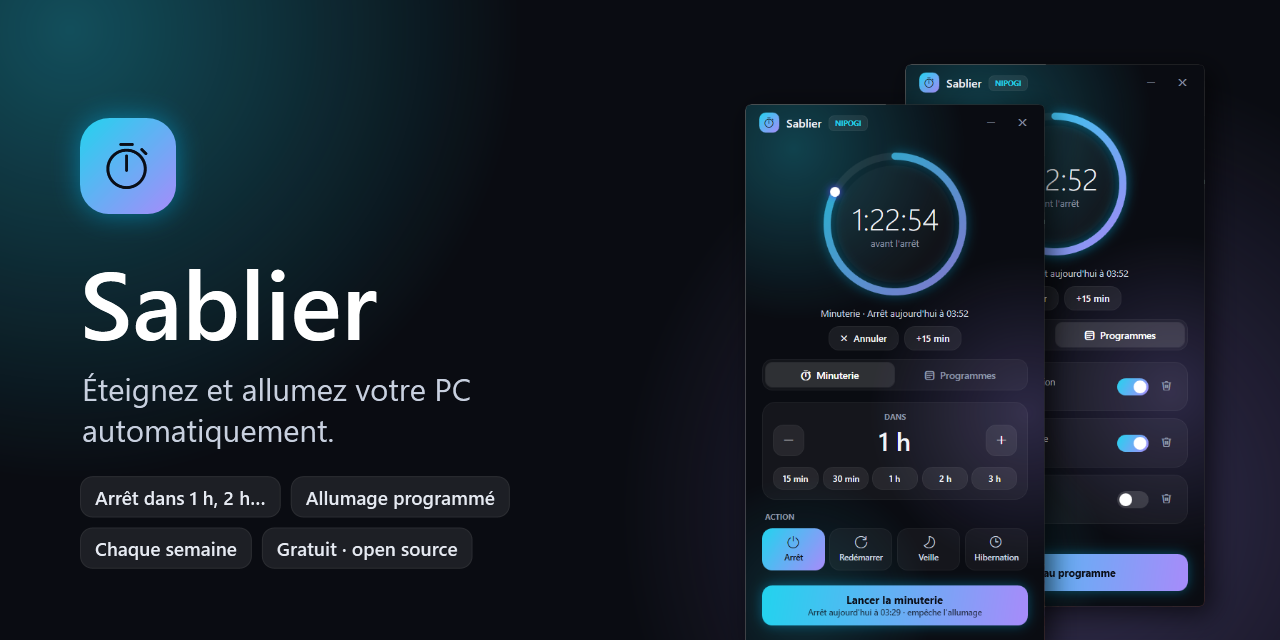
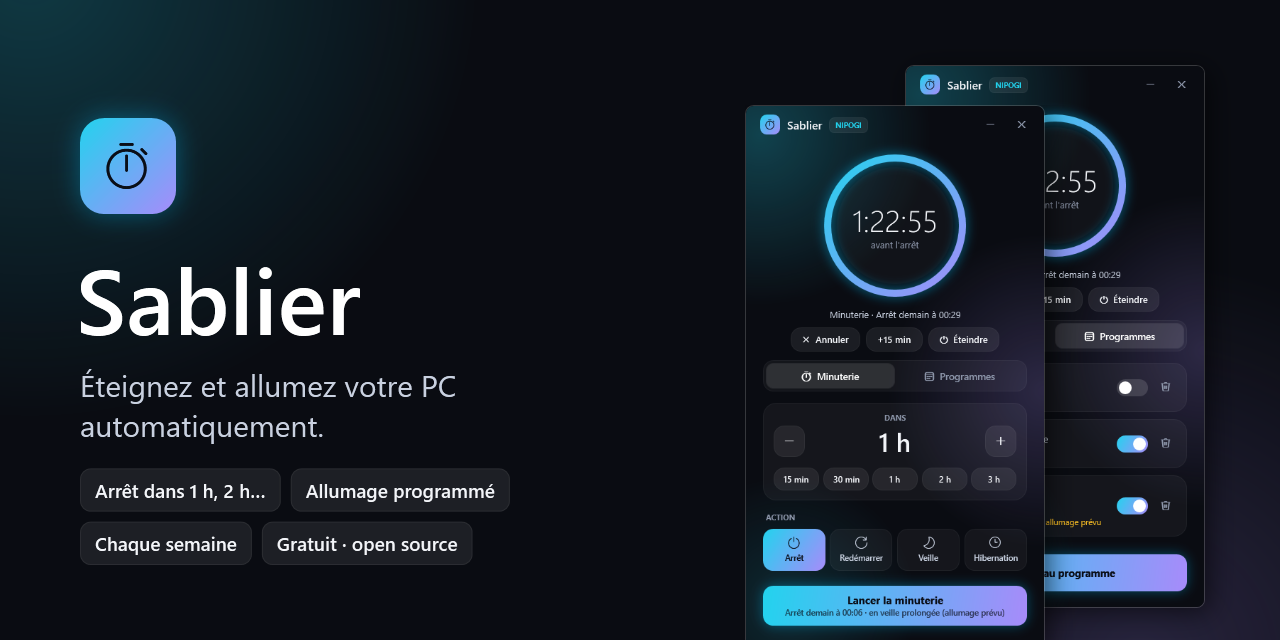
Sablier 1.1 : captures d'écran à jour, textes anglais relus
- Nouvelles captures (minuterie, programmes, fiche) FR/EN et aperçu GitHub
- Formulations anglaises du guide d'extinction et du README

Claude-Session: https://claude.ai/code/session_01WMaou3efQyMhv7Enn1FoQU

diff --git a/Sablier.cs b/Sablier.cs
@@ -847,7 +847,7 @@ class Fenetre
         F<TextBlock>("GuideTitre").Text = Ui.T("Allumage prévu ", "Wake-up scheduled ") + Ui.Quand(p.Cible);
         string texte = Ui.T(
             "Pour que le PC se rallume tout seul, il doit être en veille prolongée, pas éteint.\n\n• Éteignez avec « Éteindre » dans Sablier (ou son raccourci « Éteindre le PC ») ou avec le bouton d'alimentation du PC.\n• Les arrêts programmés et minuteries « Arrêt » passent eux aussi en veille prolongée.\n• Évitez Démarrer › Arrêter : l'allumage n'aurait pas lieu.\n\nAu réveil, le PC reste allumé jusqu'à votre retour (2 h max).",
-            "To wake up on its own, the PC must be hibernating, not shut down.\n\n• Turn off with \"Turn off\" in Sablier (or its \"Shut down PC\" shortcut) or with the PC's power button.\n• Scheduled shutdowns and shut-down timers hibernate too.\n• Avoid Start › Shut down: the wake-up would not happen.\n\nOnce woken, the PC stays on until you're back (2 h max).");
+            "To wake up on its own, the PC must be hibernating, not shut down.\n\n• Use Sablier's \"Turn off\" button (or its \"Shut down PC\" shortcut) or the PC's power button.\n• Scheduled shutdowns and shut-down timers hibernate too.\n• Avoid Start › Shut down: the wake-up would not happen.\n\nOnce it wakes up, the PC stays on until you're back (2 h max).");
         if (p.Repeter) texte = Ui.T("Allumage récurrent : " + Ui.Jours(p.Jours) + ".\n\n", "Recurring wake-up: " + Ui.Jours(p.Jours) + ".\n\n") + texte;
         F<TextBlock>("GuideTexte").Text = texte;
     }

diff --git a/README.md b/README.md
@@ -88,7 +88,7 @@ Sablier est gratuit. S'il vous rend service, une ⭐ sur ce dépôt aide d'autre
 - **Schedules**: turn the PC off or wake it up at a set time, once or on chosen days.
 - **Scheduled wake-up**: the PC wakes from sleep or hibernation on its own and stays on until you're back.
 - **Always 60 seconds to cancel** before any shutdown (Cancel, +15 min, Now).
-- **Smart with wake-ups**: while a wake-up is scheduled, the power button, the "Shut down PC" shortcut, scheduled shutdowns and "Shut down" timers hibernate instead of shutting down, so the PC can wake up again. Otherwise they shut down normally.
+- **Adapts to wake-ups**: while a wake-up is scheduled, the power button, the "Shut down PC" shortcut, scheduled shutdowns and "Shut down" timers hibernate instead of shutting down, so the PC can wake up again. Otherwise they shut down normally.
 - **Lightweight**: nothing runs in the background (each schedule is a Windows Task Scheduler task); no data collected, no internet connection.
 
 <p align="center">
